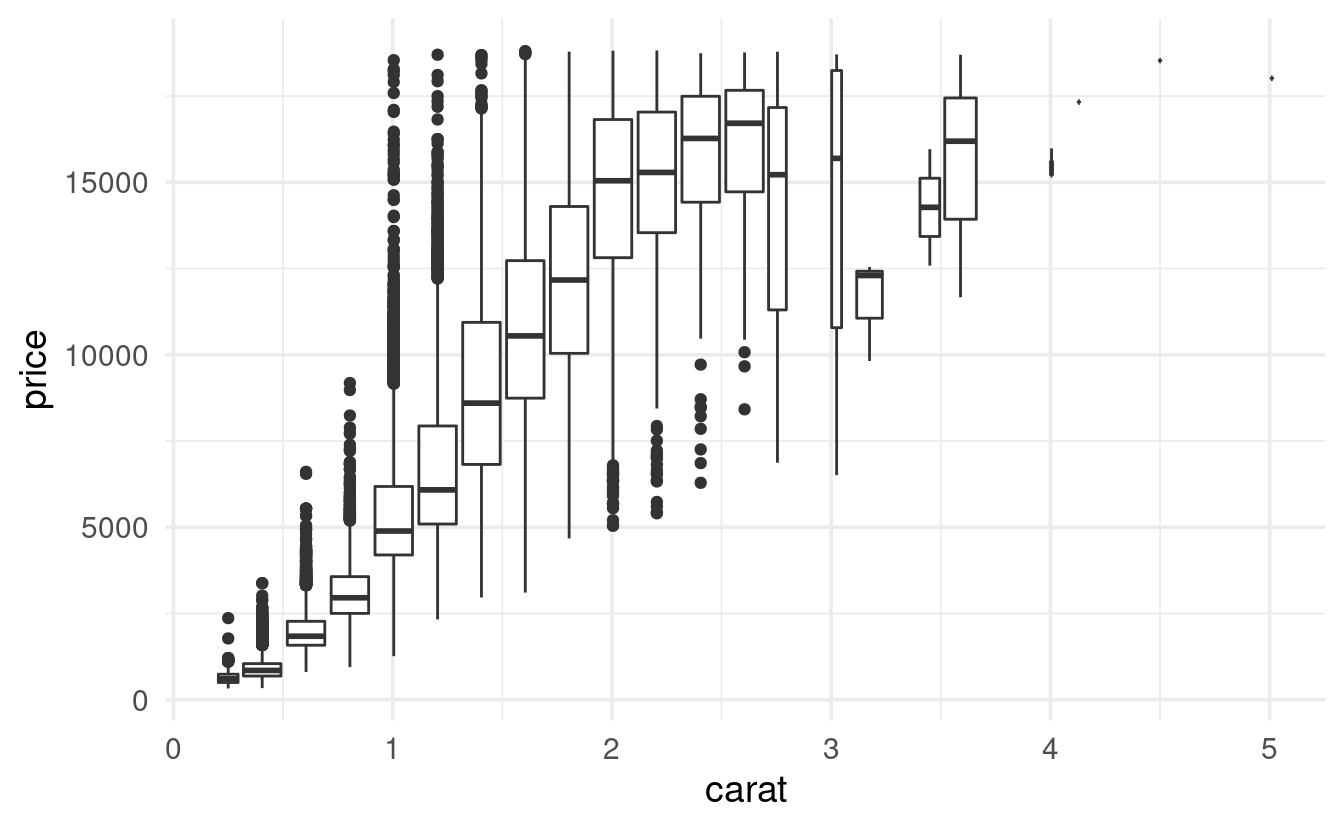
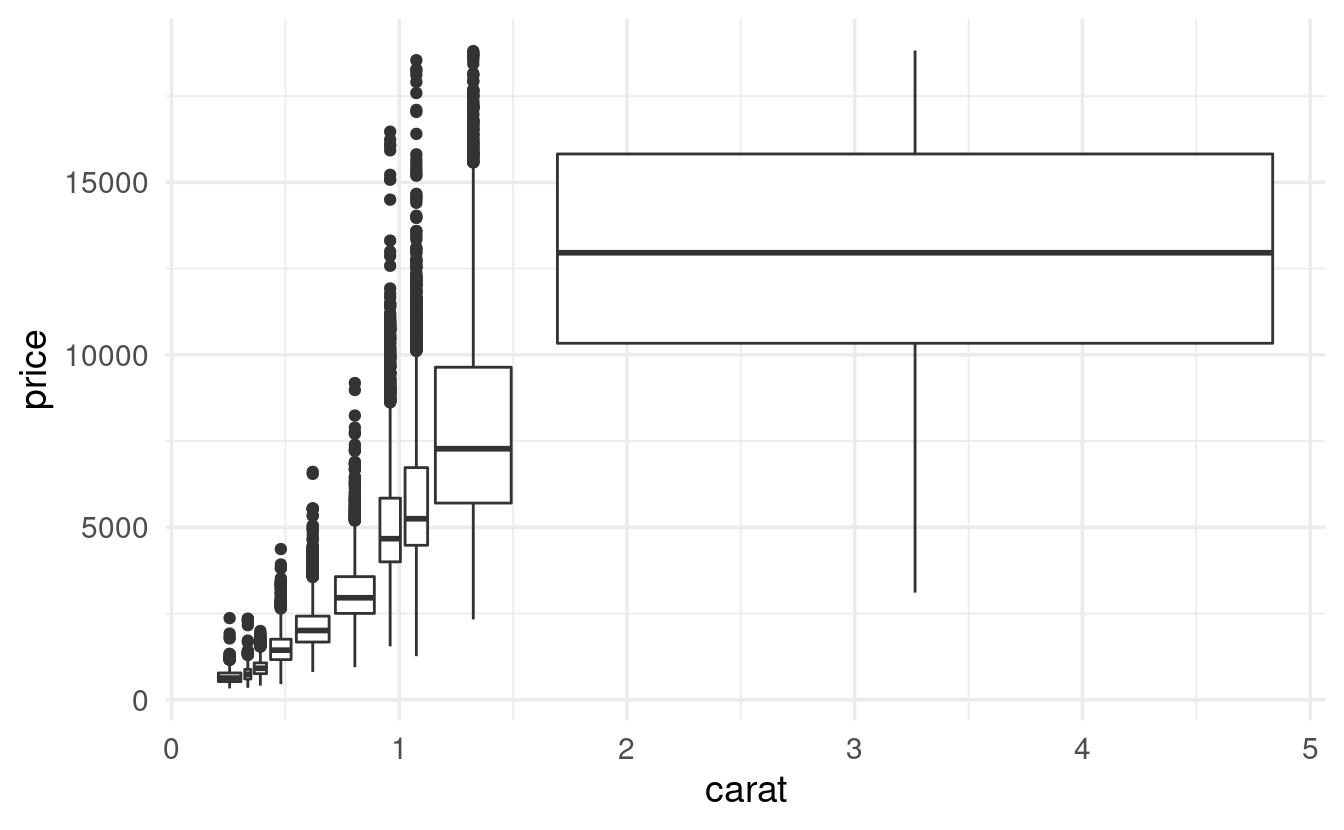
Pass 2 of CC S04E16

diff --git a/content/codeclub/S04E16/index.md b/content/codeclub/S04E16/index.md
@@ -8,7 +8,7 @@ tags: [codeclub, r4ds]
 date: 2022-12-01
 lastmod: 2022-12-01
 toc: true
-rmd_hash: be02889adfbb1f5d
+rmd_hash: 1bfef5e902d5507b
 
 ---
 
@@ -23,9 +23,10 @@ We'll also have a quick look at the `flights` dataset, for which we'll need to l
 <div class="highlight">
 
 <pre class='chroma'><code class='language-r' data-lang='r'><span><span class='c'>## You only need to install if you haven't previously done so</span></span>
-<span><span class='c'># install.packages("tidyverse")</span></span>
 <span><span class='c'># install.packages("nycflights13")</span></span>
+<span><span class='c'># install.packages("tidyverse")</span></span>
 <span></span>
+<span><span class='kr'><a href='https://rdrr.io/r/base/library.html'>library</a></span><span class='o'>(</span><span class='nv'><a href='https://github.com/hadley/nycflights13'>nycflights13</a></span><span class='o'>)</span></span>
 <span><span class='kr'><a href='https://rdrr.io/r/base/library.html'>library</a></span><span class='o'>(</span><span class='nv'><a href='https://tidyverse.tidyverse.org'>tidyverse</a></span><span class='o'>)</span></span>
 <span><span class='c'>#&gt; ── <span style='font-weight: bold;'>Attaching packages</span> ─────────────────────────────────────── tidyverse 1.3.2 ──</span></span>
 <span><span class='c'>#&gt; <span style='color: #00BB00;'>✔</span> <span style='color: #0000BB;'>ggplot2</span> 3.3.6      <span style='color: #00BB00;'>✔</span> <span style='color: #0000BB;'>purrr  </span> 0.3.5 </span></span>
@@ -34,7 +35,7 @@ We'll also have a quick look at the `flights` dataset, for which we'll need to l
 <span><span class='c'>#&gt; <span style='color: #00BB00;'>✔</span> <span style='color: #0000BB;'>readr  </span> 2.1.3      <span style='color: #00BB00;'>✔</span> <span style='color: #0000BB;'>forcats</span> 0.5.2 </span></span>
 <span><span class='c'>#&gt; ── <span style='font-weight: bold;'>Conflicts</span> ────────────────────────────────────────── tidyverse_conflicts() ──</span></span>
 <span><span class='c'>#&gt; <span style='color: #BB0000;'>✖</span> <span style='color: #0000BB;'>dplyr</span>::<span style='color: #00BB00;'>filter()</span> masks <span style='color: #0000BB;'>stats</span>::filter()</span></span>
-<span><span class='c'>#&gt; <span style='color: #BB0000;'>✖</span> <span style='color: #0000BB;'>dplyr</span>::<span style='color: #00BB00;'>lag()</span>    masks <span style='color: #0000BB;'>stats</span>::lag()</span></span><span><span class='kr'><a href='https://rdrr.io/r/base/library.html'>library</a></span><span class='o'>(</span><span class='nv'><a href='https://github.com/hadley/nycflights13'>nycflights13</a></span><span class='o'>)</span></span></code></pre>
+<span><span class='c'>#&gt; <span style='color: #BB0000;'>✖</span> <span style='color: #0000BB;'>dplyr</span>::<span style='color: #00BB00;'>lag()</span>    masks <span style='color: #0000BB;'>stats</span>::lag()</span></span></code></pre>
 
 </div>
 
@@ -60,7 +61,7 @@ Let's again take a quick look at the `diamonds` dataset before we begin:
 
 </div>
 
-On each row, we have information about one individual diamond, such as its `carat` and `price` (`x`, `y`, and `z` represent the diamond's length, width, and depth, respectively.)
+On each row, we have information about one individual diamond, such as its `carat` and `price` (`x`, `y`, and `z` represent the diamond's length, width, and depth, respectively).
 
 Finally, we'll again set a *ggplot2* "theme" that is a little better-looking than the default one (this setting will apply until you restart R/RStudio):
 
@@ -119,30 +120,30 @@ But you may not want throw out entire rows, because the values for the *other va
 
 ### More on `ifelse()`
 
-To better understand [`ifelse()`](https://rdrr.io/r/base/ifelse.html), a simple example may help:
+To better understand [`ifelse()`](https://rdrr.io/r/base/ifelse.html), a simple example may help. First, we create a vector with integers from 1 to 10:
 
 <div class="highlight">
 
-<pre class='chroma'><code class='language-r' data-lang='r'><span><span class='c'># Create a vector with integers from 1 to 10:</span></span>
-<span><span class='nv'>x</span> <span class='o'>&lt;-</span> <span class='m'>1</span><span class='o'>:</span><span class='m'>10</span></span>
+<pre class='chroma'><code class='language-r' data-lang='r'><span><span class='nv'>x</span> <span class='o'>&lt;-</span> <span class='m'>1</span><span class='o'>:</span><span class='m'>10</span></span>
 <span><span class='nv'>x</span></span>
 <span><span class='c'>#&gt;  [1]  1  2  3  4  5  6  7  8  9 10</span></span></code></pre>
 
 </div>
 
+The following expression will return a logical vector that indicates, for each value of `x`, whether it is smaller than 5:
+
 <div class="highlight">
 
-<pre class='chroma'><code class='language-r' data-lang='r'><span><span class='c'># This will return a logical vector, indicating, for each value,</span></span>
-<span><span class='c'># whether it is smaller than 5:</span></span>
-<span><span class='nv'>x</span> <span class='o'>&lt;</span> <span class='m'>5</span></span>
+<pre class='chroma'><code class='language-r' data-lang='r'><span><span class='nv'>x</span> <span class='o'>&lt;</span> <span class='m'>5</span></span>
 <span><span class='c'>#&gt;  [1]  TRUE  TRUE  TRUE  TRUE FALSE FALSE FALSE FALSE FALSE FALSE</span></span></code></pre>
 
 </div>
 
+We can use that expression as the `test` in [`ifelse()`](https://rdrr.io/r/base/ifelse.html), and turn values smaller than 5 into NA, while leaving the other values unchanged:
+
 <div class="highlight">
 
-<pre class='chroma'><code class='language-r' data-lang='r'><span><span class='c'># We can turn the small values into NAs, and leave big values unchanged, as follows:</span></span>
-<span><span class='nf'><a href='https://rdrr.io/r/base/ifelse.html'>ifelse</a></span><span class='o'>(</span>test <span class='o'>=</span> <span class='nv'>x</span> <span class='o'>&lt;</span> <span class='m'>5</span>, yes <span class='o'>=</span> <span class='kc'>NA</span>, no <span class='o'>=</span> <span class='nv'>x</span><span class='o'>)</span></span>
+<pre class='chroma'><code class='language-r' data-lang='r'><span><span class='nf'><a href='https://rdrr.io/r/base/ifelse.html'>ifelse</a></span><span class='o'>(</span>test <span class='o'>=</span> <span class='nv'>x</span> <span class='o'>&lt;</span> <span class='m'>5</span>, yes <span class='o'>=</span> <span class='kc'>NA</span>, no <span class='o'>=</span> <span class='nv'>x</span><span class='o'>)</span></span>
 <span><span class='c'>#&gt;  [1] NA NA NA NA  5  6  7  8  9 10</span></span></code></pre>
 
 </div>
@@ -153,9 +154,9 @@ To better understand [`ifelse()`](https://rdrr.io/r/base/ifelse.html), a simple 
 
 ### Comparing observations with and without missing data
 
-It can be useful to compare distributions among observations with and without missing values. To do that, we can first create a new variable that indicates whether a value is missing or not. Then, we can map an aesthetic like `color` to this variable to show the two groups separately.
+It can be useful to compare distributions among rows with and without missing values. To do that, we can first create a new variable that indicates whether a value for another variable is missing or not. Then, we can map an aesthetic like `color` to this missing-or-not variable, to show the two groups separately.
 
-Below, we'll compare flights with and without missing values for departure time (`dep_time`), since the former are cancelled flights, using the geom `geom_freqpoly` that we also saw last time:
+Below, we'll compare flights with and without missing values for departure time (`dep_time`), i.e. cancelled and not-cancelled flights, using the geom `geom_freqpoly` that we also saw last time:
 
 <div class="highlight">
 
@@ -183,7 +184,7 @@ We can use [`geom_density()`](https://ggplot2.tidyverse.org/reference/geom_densi
 
 </div>
 
-It looks like flights at the end of the day are much more commonly cancelled than those early on, which is what we might have expected!
+It looks like flights at the end of the day are much more commonly cancelled than those early on, which is what we might have expected.
 
 <br>
 
@@ -191,11 +192,11 @@ It looks like flights at the end of the day are much more commonly cancelled tha
 
 ## Chapter 7.5: Covariation
 
-This section of the book covers the exploration of covariation among two variables. For example, is there a relationship between the cut and the price of a diamond (a categorical and continuous variable)? Or between the cut and color of a diamond (two categorical variables)? Or between the carat and the price of a diamond (two continuous variables)?
+This section of the book covers the exploration of covariation among two variables. For example, is there a relationship between the cut and the price of a diamond (a categorical and continuous variable)? Or an association between the cut and color of a diamond (two categorical variables)? Or between the carat and the price of a diamond (two continuous variables)?
 
 ### 7.5.1: A categorical and continuous variable
 
-In out last plot above, we actually explored the relationship between a categorical variable (cancelled & not-cancelled flights) and a continuous one (departure time).
+In out last plot above, we already explored the relationship between a categorical variable (cancelled & not-cancelled flights) and a continuous one (departure time).
 
 Let's see another example, this time for the `diamonds` dataset: whether prices differ among diamond cuts:
 
@@ -209,7 +210,7 @@ Let's see another example, this time for the `diamonds` dataset: whether prices 
 
 </div>
 
-Another classic way of showing the relationship between a categorical and a continuous variable is with a **boxplot**. [The book](https://r4ds.had.co.nz/exploratory-data-analysis.html#cat-cont) has a good explanation of what the components of a boxplot (box, median line, whiskers, outliers) represent. Let's make a boxplot of diamond prices by cut:
+Another classic way of showing the relationship between a categorical and a continuous variable is with a **boxplot**. [The book](https://r4ds.had.co.nz/exploratory-data-analysis.html#cat-cont) has a good explanation of what the components of a boxplot (box, median line, whiskers, outliers) represent. Let's make a boxplot of diamond `price` by `cut`:
 
 <div class="highlight">
 
@@ -256,14 +257,14 @@ A quick way to do that is with [`geom_count()`](https://ggplot2.tidyverse.org/re
 
 </div>
 
-A slightly more visually appealing way to plot this is using a heatmap, which we can do with [`geom_tile()`](https://ggplot2.tidyverse.org/reference/geom_tile.html) after we calculate the counts ourselves:
+A **heatmap** is a slightly more visually appealing way to plot this. We can create one using **[`geom_tile()`](https://ggplot2.tidyverse.org/reference/geom_tile.html)** by first calculating the counts ourselves, and then mapping these counts to the `fill` color of the tiles:
 
 <div class="highlight">
 
 <pre class='chroma'><code class='language-r' data-lang='r'><span><span class='nv'>diamonds</span> <span class='o'><a href='https://magrittr.tidyverse.org/reference/pipe.html'>%&gt;%</a></span> </span>
-<span>  <span class='nf'><a href='https://dplyr.tidyverse.org/reference/count.html'>count</a></span><span class='o'>(</span><span class='nv'>color</span>, <span class='nv'>cut</span><span class='o'>)</span> <span class='o'><a href='https://magrittr.tidyverse.org/reference/pipe.html'>%&gt;%</a></span>  </span>
-<span>  <span class='nf'><a href='https://ggplot2.tidyverse.org/reference/ggplot.html'>ggplot</a></span><span class='o'>(</span>mapping <span class='o'>=</span> <span class='nf'><a href='https://ggplot2.tidyverse.org/reference/aes.html'>aes</a></span><span class='o'>(</span>x <span class='o'>=</span> <span class='nv'>color</span>, y <span class='o'>=</span> <span class='nv'>cut</span><span class='o'>)</span><span class='o'>)</span> <span class='o'>+</span></span>
-<span>  <span class='nf'><a href='https://ggplot2.tidyverse.org/reference/geom_tile.html'>geom_tile</a></span><span class='o'>(</span>mapping <span class='o'>=</span> <span class='nf'><a href='https://ggplot2.tidyverse.org/reference/aes.html'>aes</a></span><span class='o'>(</span>fill <span class='o'>=</span> <span class='nv'>n</span><span class='o'>)</span><span class='o'>)</span></span>
+<span>  <span class='nf'><a href='https://dplyr.tidyverse.org/reference/count.html'>count</a></span><span class='o'>(</span><span class='nv'>color</span>, <span class='nv'>cut</span><span class='o'>)</span> <span class='o'><a href='https://magrittr.tidyverse.org/reference/pipe.html'>%&gt;%</a></span>  <span class='c'># This will create a column 'n' with the counts</span></span>
+<span>  <span class='nf'><a href='https://ggplot2.tidyverse.org/reference/ggplot.html'>ggplot</a></span><span class='o'>(</span>mapping <span class='o'>=</span> <span class='nf'><a href='https://ggplot2.tidyverse.org/reference/aes.html'>aes</a></span><span class='o'>(</span>x <span class='o'>=</span> <span class='nv'>color</span>, y <span class='o'>=</span> <span class='nv'>cut</span>, fill <span class='o'>=</span> <span class='nv'>n</span><span class='o'>)</span><span class='o'>)</span> <span class='o'>+</span></span>
+<span>  <span class='nf'><a href='https://ggplot2.tidyverse.org/reference/geom_tile.html'>geom_tile</a></span><span class='o'>(</span><span class='o'>)</span></span>
 </code></pre>
 <img src="figs/unnamed-chunk-16-1.png" width="700px" style="display: block; margin: auto;" />
 
@@ -273,9 +274,9 @@ A slightly more visually appealing way to plot this is using a heatmap, which we
 
 ### 7.5.3: Two continuous variables
 
-Visualizing the relationship between two continuous variables is perhaps the most intuitive of the combinations. It can be done with simple scatterplots ([`geom_point()`](https://ggplot2.tidyverse.org/reference/geom_point.html)), of which we have already seen a couple of examples.
+Visualizing the relationship between two continuous variables is perhaps the most intuitive of the variable type combinations. It can be done with simple scatterplots ([`geom_point()`](https://ggplot2.tidyverse.org/reference/geom_point.html)), of which we have already seen a couple of examples.
 
-The books covers a few strategies that can be useful when dealing with large datasets, when relationships may be hidden due to overplotting. Consider the relationship between the carat (weight) and price of diamonds:
+The books covers a few strategies that can be useful when dealing with large datasets, when relationships may be hidden due to overplotting. Consider the relationship between the `carat` (weight) and `price` of diamonds:
 
 <div class="highlight">
 
@@ -286,9 +287,9 @@ The books covers a few strategies that can be useful when dealing with large dat
 
 </div>
 
-There is clearly some overplotting going on here, with some areas of solid black -- though this type of thing can get a lot worse and the overall pattern is still clear in this case.
+There is clearly some overplotting going on here, with areas of solid black -- though this type of thing can get a lot worse. Here, the overall pattern is still apparent.
 
-Making points transparent is one strategy to more clearly see patterns in the data:
+Making points transparent is one strategy to more clearly see patterns in the data in the face of overplotting:
 
 <div class="highlight">
 
@@ -303,9 +304,9 @@ Making points transparent is one strategy to more clearly see patterns in the da
 
 Two other strategies covered in the book are:
 
--   Use automated 2-dimensional binning (e.g. with `geom_bin2d`)
+-   Use a geom that does 2-dimensional binning for you (e.g. `geom_bin2d`).
 
--   Bin one of the continuous variables, effectively turning it into a categorical variable, so that we can use plot types like boxplots. You'll try that in the exercises.
+-   Bin *one* of the continuous variables, effectively turning it into a categorical variable, so that we can use plot types like boxplots. You'll try that in the exercises.
 
 <br>
 
@@ -323,7 +324,7 @@ All the exercises use the `diamonds` dataset. After loading the *tidyverse*, thi
 
 Use the function [`cut_number()`](https://ggplot2.tidyverse.org/reference/cut_interval.html) to divide the `carat` values into 10 bins, and create a boxplot of diamond prices for each of these bins.
 
-*Tip: If you can't read the x-axis labels (bin names) in the resulting plot * *because they overlap, consider flipping the plot:* *simply swap the `x` and `y` aesthetic assignments* *(alternatively, use the stand-alone function [`coord_flip()`](https://ggplot2.tidyverse.org/reference/coord_flip.html)).*
+*Tip: If you can't read the x-axis labels (bin names) in the resulting plot* *because they overlap, consider flipping the plot:* *simply swap the `x` and `y` aesthetic assignments* *(alternatively, use the stand-alone function [`coord_flip()`](https://ggplot2.tidyverse.org/reference/coord_flip.html)).*
 
 <details>
 <summary>
@@ -334,7 +335,7 @@ Use the function [`cut_number()`](https://ggplot2.tidyverse.org/reference/cut_in
 
 -   You can start by creating a binned column with [`mutate()`](https://dplyr.tidyverse.org/reference/mutate.html) and `cut_width(carat, 0.1)`, *or* you can create the bins "on the fly", by simply using `cut_width(carat, 0.1)` as `x` or `y` aesthetic.
 
--   An alternative way of making this kind of plot would be by using [`cut_width()`](https://ggplot2.tidyverse.org/reference/cut_interval.html) instead of [`cut_number()`](https://ggplot2.tidyverse.org/reference/cut_interval.html): then, you fix the width of each bin rather than the number of data points in each bin. The disadvantage of that approach is that you may be misled by bins with very few data points, but a way to ameliorate this is by using the `varwidth = TRUE` argument of [`geom_boxplot()`](https://ggplot2.tidyverse.org/reference/geom_boxplot.html).
+-   Side note: An alternative way of making this kind of plot would be with [`cut_width()`](https://ggplot2.tidyverse.org/reference/cut_interval.html) instead of [`cut_number()`](https://ggplot2.tidyverse.org/reference/cut_interval.html): then, you fix the width of each bin rather than the number of data points in each bin. The disadvantage of that approach is that you may be misled by bins with very few data points, but a way to ameliorate this is by using the `varwidth = TRUE` argument of [`geom_boxplot()`](https://ggplot2.tidyverse.org/reference/geom_boxplot.html).
 
 </details>
 
@@ -360,19 +361,19 @@ To be able to read the axis labels, I moved `carat` to the y axis (and I also ad
 
 </div>
 
-The book has the following code to do this, which is less intuitive but has the advantage of keeping the carat axis labels as if it still were a continuous variable:
+The book has a different way of doing this, using the `group` aesthetic. This is less intuitive but has the advantage of keeping the carat axis labels as if it still were a regular continuous variable. It also makes the width of the boxes represent the width of the bins, which you may or may not like:
 
 <div class="highlight">
 
 <pre class='chroma'><code class='language-r' data-lang='r'><span><span class='nv'>diamonds</span> <span class='o'><a href='https://magrittr.tidyverse.org/reference/pipe.html'>%&gt;%</a></span> </span>
 <span>  <span class='nf'><a href='https://ggplot2.tidyverse.org/reference/ggplot.html'>ggplot</a></span><span class='o'>(</span>mapping <span class='o'>=</span> <span class='nf'><a href='https://ggplot2.tidyverse.org/reference/aes.html'>aes</a></span><span class='o'>(</span>x <span class='o'>=</span> <span class='nv'>carat</span>, y <span class='o'>=</span> <span class='nv'>price</span><span class='o'>)</span><span class='o'>)</span> <span class='o'>+</span> </span>
-<span>  <span class='nf'><a href='https://ggplot2.tidyverse.org/reference/geom_boxplot.html'>geom_boxplot</a></span><span class='o'>(</span>mapping <span class='o'>=</span> <span class='nf'><a href='https://ggplot2.tidyverse.org/reference/aes.html'>aes</a></span><span class='o'>(</span>group <span class='o'>=</span> <span class='nf'><a href='https://ggplot2.tidyverse.org/reference/cut_interval.html'>cut_width</a></span><span class='o'>(</span><span class='nv'>carat</span>, <span class='m'>0.2</span><span class='o'>)</span><span class='o'>)</span><span class='o'>)</span></span>
+<span>  <span class='nf'><a href='https://ggplot2.tidyverse.org/reference/geom_boxplot.html'>geom_boxplot</a></span><span class='o'>(</span>mapping <span class='o'>=</span> <span class='nf'><a href='https://ggplot2.tidyverse.org/reference/aes.html'>aes</a></span><span class='o'>(</span>group <span class='o'>=</span> <span class='nf'><a href='https://ggplot2.tidyverse.org/reference/cut_interval.html'>cut_number</a></span><span class='o'>(</span><span class='nv'>carat</span>, <span class='m'>10</span><span class='o'>)</span><span class='o'>)</span><span class='o'>)</span></span>
 </code></pre>
 <img src="figs/unnamed-chunk-20-1.png" width="700px" style="display: block; margin: auto;" />
 
 </div>
 
-Alternatively, you can use the [`cut_width()`](https://ggplot2.tidyverse.org/reference/cut_interval.html) function:
+Alternatively, if you want to have control over the ranges that the bins cover (but not over the number of points in each bin), you can use the [`cut_width()`](https://ggplot2.tidyverse.org/reference/cut_interval.html) function:
 
 <div class="highlight">
 
@@ -385,7 +386,7 @@ Alternatively, you can use the [`cut_width()`](https://ggplot2.tidyverse.org/ref
 
 </div>
 
-Use `varwidth = TRUE` if you want the width of the boxplots to reflect the number of data points:
+In that case, consider using `varwidth = TRUE` to make the width of the boxes to reflect the number of data points:
 
 <div class="highlight">
 
@@ -412,11 +413,11 @@ Use `varwidth = TRUE` if you want the width of the boxplots to reflect the numbe
 
 ### Exercise 2
 
--   Create a heatmap ([`geom_tile()`](https://ggplot2.tidyverse.org/reference/geom_tile.html)) that shows the mean diamond price for each diamond color and cut combination.
+-   Create a heatmap ([`geom_tile()`](https://ggplot2.tidyverse.org/reference/geom_tile.html)) that shows the *mean diamond price* for each diamond color and cut combination (you'll have to compute the mean price first).
 
 -   From your heatmap, would you say that going from color `D` =\> `J` is associated with an *increase* or a *decrease* in the mean price?
 
-*Tip: add `+ scale_fill_viridis_c()` at the end for a much nicer color scale.*
+*Tip: add `+ scale_fill_viridis_c()` to your code for a much nicer color scale.*
 
 <details>
 <summary>
@@ -425,7 +426,7 @@ Use `varwidth = TRUE` if you want the width of the boxplots to reflect the numbe
 
 <br>
 
--   In the heatmap, you'll want `color` along the `x` axis and `cut` along the `y` axis (or vice versa), and you'll want to `fill` the tiles by price.
+-   In the heatmap, you'll want `color` along the `x` axis and `cut` along the `y` axis (or vice versa), and you'll want to `fill` the tiles by the mean price.
 
 -   You'll first have to compute the mean diamond price for each of the `color`-`cut` combinations: use [`group_by()`](https://dplyr.tidyverse.org/reference/group_by.html) and then [`summarize()`](https://dplyr.tidyverse.org/reference/summarise.html).
 
@@ -489,15 +490,13 @@ Use `varwidth = TRUE` if you want the width of the boxplots to reflect the numbe
 
 </div>
 
-It looks like going from color `D` to `J` is associated with an overall increase in the mean price.
+It looks like going from color `D` to `J` is associated with an overall *increase* in the mean price of diamonds.
 
 </details>
 
 </div>
 
 </div>
-
-<br>
 
 <br>
 
@@ -513,8 +512,6 @@ It looks like going from color `D` to `J` is associated with an overall increase
 
 -   How could you quickly create a price index that controls for `carat`? Make a heatmap with that price index instead of the raw price.
 
--   Bonus: to better understand the relationship between `color`, `carat`, and `price`, modify the earlier scatterplot of `carat` and `price` simply by mapping diamond `color` to the color aesthetic.
-
 <details>
 <summary>
 <b>Hints</b> (click here)
@@ -526,7 +523,7 @@ It looks like going from color `D` to `J` is associated with an overall increase
 
 -   If higher carats are causally associated with higher prices, and certain colors have higher mean carats than others, it is not fair to look at the effect of color on price without somehow taking carat into account.
 
--   A simple way of taking carat into account is by using price-per-carat rather than price in your heatmap.
+-   A simple way of taking carat into account is by using "price per carat" (price divided by carat) rather than the raw price in your heatmap.
 
 </details>
 
@@ -561,9 +558,9 @@ It looks like going from color `D` to `J` is associated with an overall increase
 
 </div>
 
--   It looks like going from `D` =\> `J`, `carat` is higher.
+-   It looks like going from `D` =\> `J`, `carat` is typically higher.
 
--   Since `carat` is strongly positively associated with `price`, it is therefore not fair to compare prices among colors without controlling for `carat`.
+-   Since `carat` is strongly positively associated with `price`, it is not fair to compare prices among colors without controlling for `carat`.
 
 -   A simple way to do so is dividing `price` by `carat` to create an index that represents the "price per carat". Then, you can use that index instead of the raw price in your heatmap:
 
@@ -584,7 +581,30 @@ It looks like going from color `D` to `J` is associated with an overall increase
 
 -   Now, it looks like going from `D` =\> `J` is associated with a **decrease** rather than an increase in the mean price!
 
--   A scatterplot of carat and price that includes diamond color confirms this pattern:
+</details>
+
+</div>
+
+</div>
+
+<br>
+
+<div class="puzzle">
+
+<div>
+
+### Exercise 4 (bonus)
+
+To better understand the relationship between `color`, `carat`, and `price` (see the previous exercise), modify the earlier scatterplot of `carat` and `price` simply by mapping diamond `color` to the color aesthetic.
+
+<details>
+<summary>
+<b>Solution</b> (click here)
+</summary>
+
+<br>
+
+A scatterplot of `carat` and `price` that includes diamond color confirms that `D` diamonds are more expensive than `J` diamonds (and so on) once you take `carat` into account:
 
 <div class="highlight">
 
@@ -601,6 +621,8 @@ It looks like going from color `D` to `J` is associated with an overall increase
 </div>
 
 </div>
+
+<br>
 
 ------------------------------------------------------------------------
 
